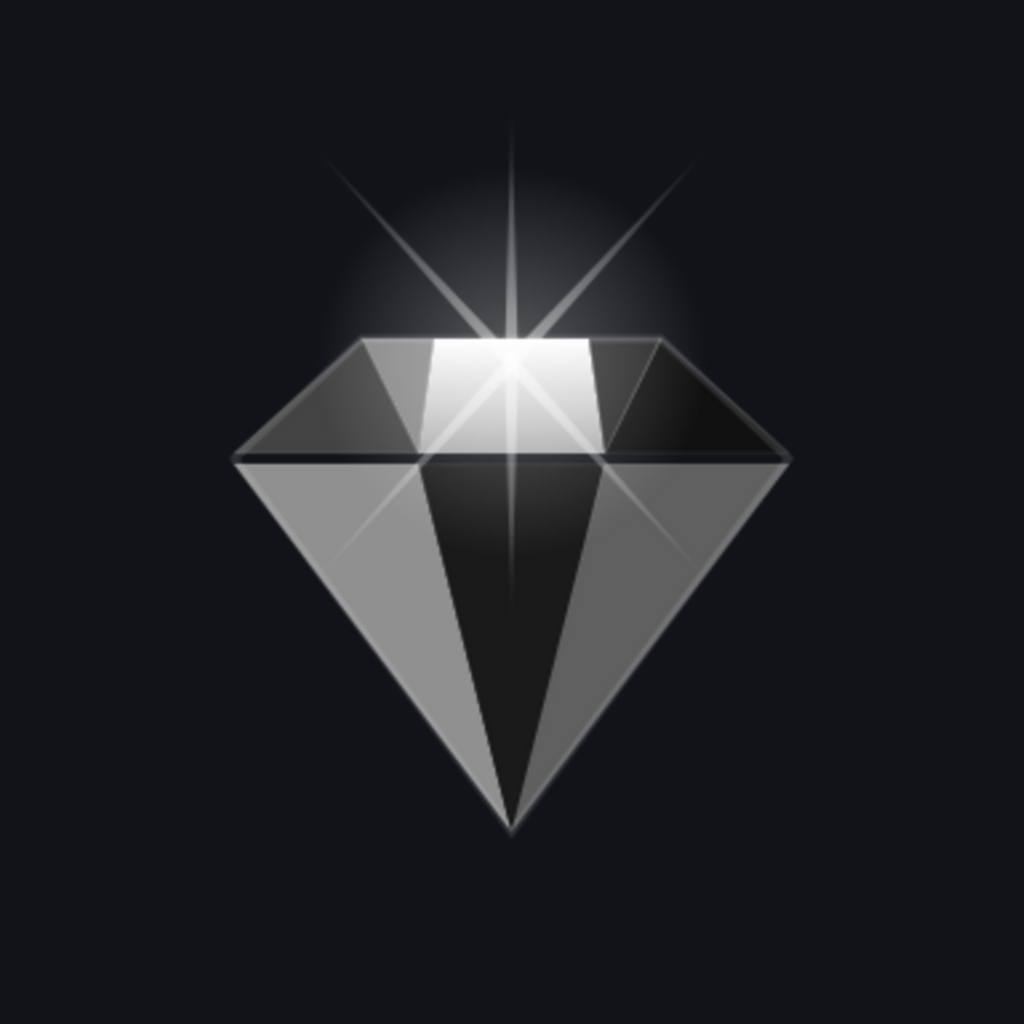
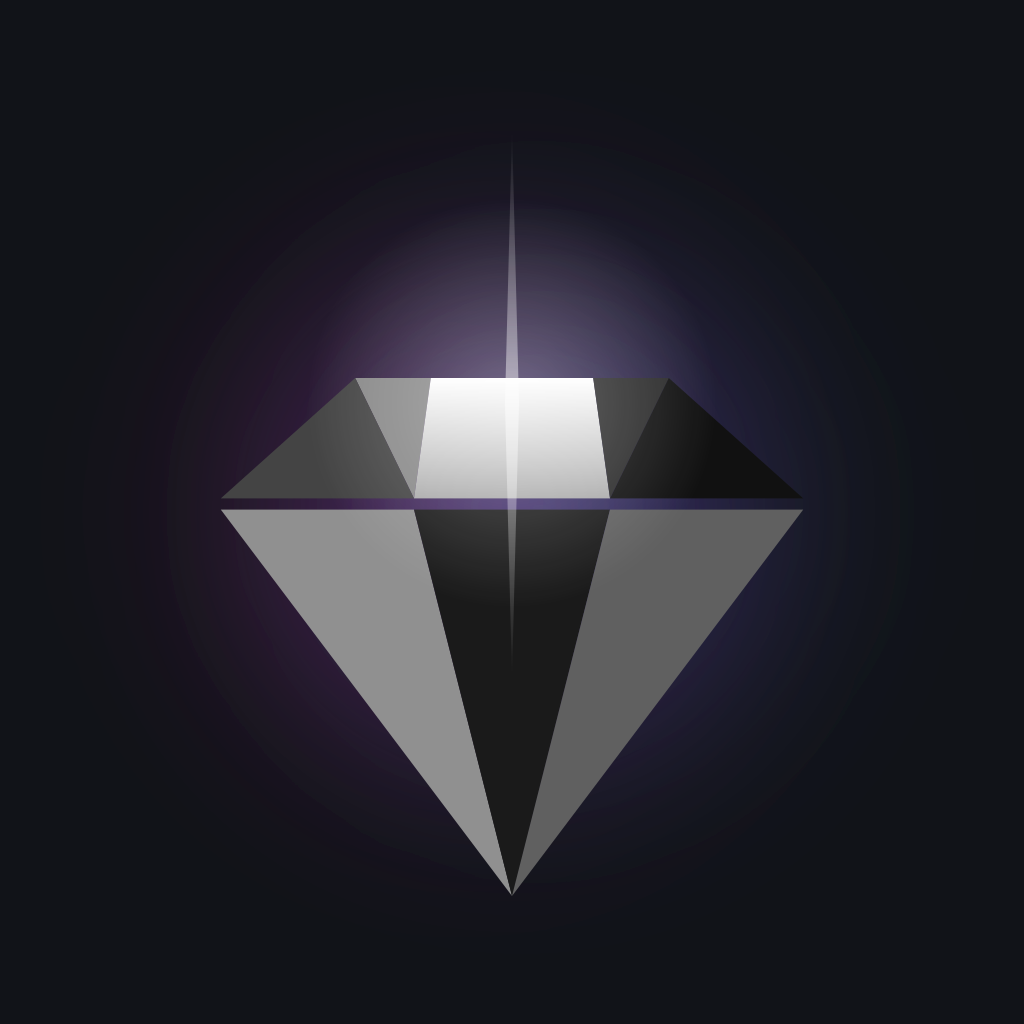
feat(mobile): rediseño splash/icono, DiamondHero blanco, Entry polish — v1.4.6
- assets/splash-logo.png y icon.png regenerados: DiamondSparkle + NebulosaGlow
  co-centrados por bounding box completo (sparkle incluido), fondo #111318
- SplashScreenComponent eliminada del flujo; expo-splash-screen se oculta
  cuando tenantLoading termina vía useEffect en AuthGate
- DiamondHero: wordmark SalonPro blanco tipografía mixta (Salon w300 + Pro w800),
  prop showText para reutilizar sin textos; eliminado MaskedView del wordmark
- OnboardingEntryScreen: gradiente magenta→azul en "con estilo y precisión"
  con altura y lineHeight suficientes para evitar corte de descendentes

diff --git a/apps/mobile/screens/onboarding/components/DiamondHero.tsx b/apps/mobile/screens/onboarding/components/DiamondHero.tsx
@@ -1,21 +1,22 @@
 import React from "react";
 import { View, Text, StyleSheet } from "react-native";
-import { LinearGradient } from "expo-linear-gradient";
-import MaskedView from "@react-native-masked-view/masked-view";
-import { ThemedText } from "@/components/ThemedText";
 import { DiamondSparkle } from "./DiamondSparkle";
 import { NebulosaGlow } from "./NebulosaGlow";
 import { Spacing } from "@/constants/theme";
 
 const STACK_SIZE = 320;
 const GLOW_SIZE = 420;
-const GRADIENT_COLORS: [string, string, string] = ["#E91E8C", "#9C27B0", "#1565C0"];
+
+interface DiamondHeroProps {
+  /** Mostrar wordmark "SalonPro" y tagline debajo del diamante. Default: true */
+  showText?: boolean;
+}
 
 /**
- * Componente compartido entre OnboardingEntryScreen y SplashScreen.
- * NebulosaGlow + DiamondSparkle + wordmark "SalonPro" con gradiente + tagline.
+ * Componente compartido entre OnboardingEntryScreen y la splash nativa (vía assets).
+ * NebulosaGlow + DiamondSparkle + wordmark "SalonPro" blanco + tagline.
  */
-export function DiamondHero() {
+export function DiamondHero({ showText = true }: DiamondHeroProps) {
   return (
     <View style={styles.container}>
       {/* Glow + diamante */}
@@ -26,27 +27,22 @@ export function DiamondHero() {
         </View>
       </View>
 
-      {/* Wordmark SalonPro — gradiente dentro de las letras */}
-      <MaskedView
-        style={styles.maskedWordmark}
-        maskElement={
-          <View style={styles.maskCenter}>
-            <Text style={styles.wordmark}>SalonPro</Text>
+      {showText && (
+        <>
+          {/* Wordmark SalonPro — tipografía mixta, todo blanco */}
+          <View style={styles.wordmarkRow}>
+            {/* "Salon" — serif elegante via fontWeight 300 + letterSpacing amplio */}
+            <Text style={styles.wordmarkSalon}>Salon</Text>
+            {/* "Pro" — sans-serif bold condensado */}
+            <Text style={styles.wordmarkPro}>Pro</Text>
           </View>
-        }
-      >
-        <LinearGradient
-          colors={GRADIENT_COLORS}
-          start={{ x: 0, y: 0.5 }}
-          end={{ x: 1, y: 0.5 }}
-          style={styles.gradientFill}
-        />
-      </MaskedView>
 
-      {/* Tagline */}
-      <ThemedText style={styles.tagline}>
-        Pule tu negocio, Brilla en cada servicio.
-      </ThemedText>
+          {/* Tagline */}
+          <Text style={styles.tagline}>
+            Pule tu negocio · Brilla en cada servicio
+          </Text>
+        </>
+      )}
     </View>
   );
 }
@@ -70,29 +66,31 @@ const styles = StyleSheet.create({
     alignItems: "center",
     justifyContent: "center",
   },
-  maskedWordmark: {
-    height: 44,
+  wordmarkRow: {
+    flexDirection: "row",
+    alignItems: "baseline",
+    gap: 2,
   },
-  maskCenter: {
-    flex: 1,
-    alignItems: "center",
-    justifyContent: "center",
-    backgroundColor: "transparent",
+  // "Salon" — peso ligero, letras separadas, aspecto editorial/lujo
+  wordmarkSalon: {
+    fontSize: 38,
+    fontWeight: "300",
+    letterSpacing: 6,
+    color: "#FFFFFF",
+    textTransform: "uppercase",
   },
-  wordmark: {
-    fontSize: 36,
-    fontWeight: "700",
-    letterSpacing: -0.5,
-    color: "black", // define la forma del mask — el color no importa
-  },
-  gradientFill: {
-    flex: 1,
-    width: 220,
+  // "Pro" — bold, sin separación, contraste de peso
+  wordmarkPro: {
+    fontSize: 38,
+    fontWeight: "800",
+    letterSpacing: -1,
+    color: "#FFFFFF",
   },
   tagline: {
-    fontSize: 15,
-    color: "rgba(255,255,255,0.55)",
+    fontSize: 13,
+    fontWeight: "400",
+    color: "rgba(255,255,255,0.45)",
     textAlign: "center",
-    lineHeight: 22,
+    letterSpacing: 0.5,
   },
 });

diff --git a/apps/mobile/navigation/AuthGate.tsx b/apps/mobile/navigation/AuthGate.tsx
@@ -1,9 +1,11 @@
-import React, { useState } from "react";
+import React, { useEffect, useState } from "react";
+import * as SplashScreenExpo from "expo-splash-screen";
 import MainTabNavigator from "@/navigation/MainTabNavigator";
-import { SplashScreenComponent } from "@/screens/SplashScreen";
 import { LoginScreen } from "@/screens/LoginScreen";
 import { useAuth } from "@/contexts/AuthContext";
 import { useTenant } from "@/contexts/TenantContext";
+
+SplashScreenExpo.preventAutoHideAsync?.();
 
 import OnboardingBusinessTypeScreen from "@/screens/onboarding/OnboardingBusinessTypeScreen";
 import OnboardingBasicInfoScreen from "@/screens/onboarding/OnboardingBasicInfoScreen";
@@ -18,15 +20,15 @@ type PasoOnboarding = 1 | 2 | 3 | 4 | 5 | 6;
 
 /**
  * Flujo completo de la app:
- *   Splash → (no configurado) Entrada → nuevo negocio (pasos 1-4) → paso 5 auth → paso 6 listo;
- *           o "ya tengo cuenta" → OnboardingAuthScreen (mismo look del wizard), no LoginScreen aislado.
+ *   (no configurado) Entrada → nuevo negocio (pasos 1-4) → paso 5 auth → paso 6 listo;
+ *           o "ya tengo cuenta" → OnboardingAuthScreen (mismo look del wizard).
  *           → (configurado, no auth) LoginScreen clásico
  *           → (configurado, auth) MainTabNavigator
+ * La splash nativa (expo-splash-screen) cubre el tiempo de carga inicial.
  */
 export default function AuthGate() {
   const { isAuthenticated } = useAuth();
   const { isConfigured, isLoading: tenantLoading } = useTenant();
-  const [splashDone, setSplashDone] = useState(false);
   const [paso, setPaso] = useState<PasoOnboarding>(1);
   const [onboardingSessionDone, setOnboardingSessionDone] = useState(false);
 
@@ -37,10 +39,15 @@ export default function AuthGate() {
   const forceOnboardingDev =
     __DEV__ && process.env.EXPO_PUBLIC_FORCE_ONBOARDING === "true";
 
-  // Mientras el TenantContext carga AsyncStorage, mostramos el splash
-  if (!splashDone || tenantLoading) {
-    return <SplashScreenComponent onFinish={() => setSplashDone(true)} />;
-  }
+  // Ocultar splash nativa cuando el tenant termina de cargar
+  useEffect(() => {
+    if (!tenantLoading) {
+      SplashScreenExpo.hideAsync?.();
+    }
+  }, [tenantLoading]);
+
+  // Mientras AsyncStorage carga, la splash nativa cubre la pantalla
+  if (tenantLoading) return null;
 
   // Primero: si no está configurado, o si en desarrollo forzamos onboarding
   // (forceOnboardingDev solo fuerza mientras no se haya completado esta sesión)

diff --git a/apps/mobile/screens/onboarding/components/NebulosaGlow.tsx b/apps/mobile/screens/onboarding/components/NebulosaGlow.tsx
@@ -29,13 +29,13 @@ export function NebulosaGlow({ size = 420 }: NebulosaGlowProps) {
   const ratio = s / 420;
   const center = s / 2;
 
-  const mCx   = center - 25 * ratio;  // 185 en base 420
-  const bCx   = center + 25 * ratio;  // 235 en base 420
-  const cy    = center;
-  const r     = 155 * ratio;
+  const mCx = center - 25 * ratio; // 185 en base 420
+  const bCx = center + 25 * ratio; // 235 en base 420
+  const cy = center;
+  const r = 155 * ratio;
   const gScale = 175 * ratio;
-  const blur  = 42 * ratio;
-  const fPad  = s * 0.8;
+  const blur = 42 * ratio;
+  const fPad = s * 0.8;
 
   return (
     <Svg
@@ -54,9 +54,9 @@ export function NebulosaGlow({ size = 420 }: NebulosaGlowProps) {
           ry={gScale}
           gradientUnits="userSpaceOnUse"
         >
-          <Stop offset="0"   stopColor="#E91E8C" stopOpacity={0.60} />
+          <Stop offset="0" stopColor="#E91E8C" stopOpacity={0.6} />
           <Stop offset="0.5" stopColor="#E91E8C" stopOpacity={0.25} />
-          <Stop offset="1"   stopColor="#E91E8C" stopOpacity={0} />
+          <Stop offset="1" stopColor="#E91E8C" stopOpacity={0} />
         </RadialGradient>
 
         <RadialGradient
@@ -67,9 +67,9 @@ export function NebulosaGlow({ size = 420 }: NebulosaGlowProps) {
           ry={gScale}
           gradientUnits="userSpaceOnUse"
         >
-          <Stop offset="0"   stopColor="#1565C0" stopOpacity={0.60} />
+          <Stop offset="0" stopColor="#1565C0" stopOpacity={0.6} />
           <Stop offset="0.5" stopColor="#1565C0" stopOpacity={0.25} />
-          <Stop offset="1"   stopColor="#1565C0" stopOpacity={0} />
+          <Stop offset="1" stopColor="#1565C0" stopOpacity={0} />
         </RadialGradient>
 
         <Filter

diff --git a/apps/mobile/screens/onboarding/OnboardingEntryScreen.tsx b/apps/mobile/screens/onboarding/OnboardingEntryScreen.tsx
@@ -17,7 +17,11 @@ interface OnboardingEntryScreenProps {
   onLoginExisting: () => void;
 }
 
-const GRADIENT_COLORS: [string, string, string] = ["#E91E8C", "#9C27B0", "#1565C0"];
+const GRADIENT_COLORS: [string, string, string] = [
+  "#E91E8C",
+  "#9C27B0",
+  "#1565C0",
+];
 
 export default function OnboardingEntryScreen({
   onCreateNew,
@@ -97,13 +101,14 @@ const styles = StyleSheet.create({
     paddingBottom: Spacing.lg,
   },
   heroTitle: {
-    fontSize: 42,
+    fontSize: 38,
     fontWeight: "700",
     color: "#FFFFFF",
-    lineHeight: 48,
+    lineHeight: 46,
   },
+  // Altura generosa para que "precisión" con su descendente no se corte
   maskedHighlight: {
-    height: 52,
+    height: 58,
     marginTop: 2,
   },
   maskLeft: {
@@ -113,14 +118,15 @@ const styles = StyleSheet.create({
     backgroundColor: "transparent",
   },
   heroHighlightMask: {
-    fontSize: 42,
-    fontWeight: "700",
-    lineHeight: 48,
+    fontSize: 38,
+    fontWeight: "300",
+    letterSpacing: 0.5,
+    lineHeight: 54,
     color: "black",
   },
   gradientFill: {
     flex: 1,
-    width: 380,
+    width: 400,
   },
   heroSub: {
     fontSize: 14,

diff --git a/apps/mobile/screens/agenda/components/NewAppointmentModal.tsx b/apps/mobile/screens/agenda/components/NewAppointmentModal.tsx
@@ -94,7 +94,8 @@ export function NewAppointmentModal({
   const clientSectionTitle =
     clientLabel.charAt(0).toUpperCase() + clientLabel.slice(1);
 
-  const disableSubmit = createPending || isBusy || availabilityStatus === "checking";
+  const disableSubmit =
+    createPending || isBusy || availabilityStatus === "checking";
 
   return (
     <Modal visible={visible} animationType="slide" transparent>
@@ -190,8 +191,11 @@ export function NewAppointmentModal({
                 ]}
               >
                 <Feather name="alert-triangle" size={18} color={theme.text} />
-                <ThemedText style={[styles.availabilityBannerText, { color: theme.text }]}>
-                  Horario ocupado{busyUntilLabel ? `. Termina a las ${busyUntilLabel}` : ""}.
+                <ThemedText
+                  style={[styles.availabilityBannerText, { color: theme.text }]}
+                >
+                  Horario ocupado
+                  {busyUntilLabel ? `. Termina a las ${busyUntilLabel}` : ""}.
                 </ThemedText>
               </View>
             ) : null}

diff --git a/apps/mobile/screens/SplashScreen.tsx b/apps/mobile/screens/SplashScreen.tsx
@@ -33,8 +33,14 @@ export function SplashScreenComponent({ onFinish }: SplashScreenProps) {
       await SplashScreenExpo.hideAsync?.();
 
       // Fade in + escala sutil
-      opacity.value = withTiming(1, { duration: 600, easing: Easing.out(Easing.cubic) });
-      scale.value   = withTiming(1, { duration: 700, easing: Easing.out(Easing.back(1.1)) });
+      opacity.value = withTiming(1, {
+        duration: 600,
+        easing: Easing.out(Easing.cubic),
+      });
+      scale.value = withTiming(1, {
+        duration: 700,
+        easing: Easing.out(Easing.back(1.1)),
+      });
 
       // Fade out antes de terminar
       opacity.value = withDelay(1200, withTiming(0, { duration: 400 }));

diff --git a/apps/mobile/screens/agenda/components/AppointmentDetailModal.tsx b/apps/mobile/screens/agenda/components/AppointmentDetailModal.tsx
@@ -253,7 +253,10 @@ export function AppointmentDetailModal({
                 >
                   <Feather name="alert-triangle" size={18} color={theme.text} />
                   <ThemedText
-                    style={[styles.availabilityBannerText, { color: theme.text }]}
+                    style={[
+                      styles.availabilityBannerText,
+                      { color: theme.text },
+                    ]}
                   >
                     Horario ocupado
                     {busyUntilLabel ? `. Termina a las ${busyUntilLabel}` : ""}.

diff --git a/apps/mobile/screens/onboarding/OnboardingTeamScreen.tsx b/apps/mobile/screens/onboarding/OnboardingTeamScreen.tsx
@@ -48,7 +48,7 @@ export default function OnboardingTeamScreen({
   const [color, setColor] = useState(config.theme.primaryColor);
   const [guardando, setGuardando] = useState(false);
   const [empleadosAgregados, setEmpleadosAgregados] = useState<
-    Array<{ id: string; name: string; color: string }>
+    { id: string; name: string; color: string }[]
   >([]);
 
   const guardar = async () => {

diff --git a/apps/mobile/screens/AgendaScreen.tsx b/apps/mobile/screens/AgendaScreen.tsx
@@ -261,7 +261,8 @@ export default function AgendaScreen() {
   });
 
   const rescheduleStartDate = useMemo(() => {
-    if (!detailModalVisible || !appointmentDetail || !rescheduleDate) return null;
+    if (!detailModalVisible || !appointmentDetail || !rescheduleDate)
+      return null;
     const d = new Date(rescheduleDate);
     d.setHours(rescheduleHour, 0, 0, 0);
     return d;

diff --git a/apps/web/src/components/ui/Navbar.tsx b/apps/web/src/components/ui/Navbar.tsx
@@ -31,7 +31,6 @@ export function Navbar() {
       }`}
     >
       <div className="max-w-6xl mx-auto px-4 h-16 flex items-center justify-between">
-
         {/* Logo — ícono + wordmark + badge */}
         <a
           href="#"

diff --git a/apps/mobile/screens/agenda/hooks/useAvailabilityCheck.ts b/apps/mobile/screens/agenda/hooks/useAvailabilityCheck.ts
@@ -182,4 +182,3 @@ export function useAvailabilityCheck(args: {
     busyUntilLabel: query.data?.label ?? null,
   };
 }
-

diff --git a/CLAUDE.md b/CLAUDE.md
@@ -235,6 +235,14 @@ Flujo de arranque (mobile):
 - **Auth y roles**: layout con `FinanzasAuthWrapper`; sin sesión → `/finanzas/login`; `owner`/`dev` ven el panel; **staff** autenticado → `router.replace("/")` sin pantalla de error (no revelar la ruta). Enlace **Dashboard** en header de `/finanzas`.
 - **Nota**: agrupación del gráfico por día usa calendario local del navegador; comentario TODO en código para alinear con timezone del tenant cuando exista.
 
+## Cambios Recientes (mar 2026 — v1.4.6 — Splash/Icono rediseño + OnboardingEntry polish)
+
+- **Splash nativa** (`assets/splash-logo.png`, 900×900): regenerada con `DiamondSparkle` + `NebulosaGlow` perfectamente co-centrados (bounding box completo incluyendo sparkle y=-4); fondo `#111318`; sin textos. Reemplaza el PNG anterior que mostraba el diamante sesgado y cortado.
+- **Ícono launcher** (`assets/icon.png`, 1024×1024): regenerado con misma composición diamante+nebulosa; fondo `#111318` (elimina fondo blanco previo); diamante ocupa ~70% del canvas con márgenes simétricos.
+- **`SplashScreenComponent` eliminada** de `AuthGate`: la splash nativa cubre el tiempo de carga de AsyncStorage; `hideAsync()` se llama cuando `tenantLoading` pasa a `false` vía `useEffect`. Archivo `SplashScreen.tsx` queda en repo pero ya no se usa en el flujo.
+- **`DiamondHero`**: eliminado `MaskedView`/gradiente del wordmark "SalonPro"; tipografía mixta — `Salon` en weight 300 + letterSpacing 6 uppercase, `Pro` en weight 800 letterSpacing -1; todo blanco. Prop `showText` (default `true`) para reutilizar solo el diamante+glow sin textos.
+- **`OnboardingEntryScreen`**: restaurado gradiente magenta→azul en "con estilo y precisión" con altura `maskedHighlight: 58` y `lineHeight: 54` para evitar corte de descendentes; font-weight 300 + letterSpacing 0.5.
+
 ## Cambios Recientes (mar 2026 — v1.4.4 — Marca diamante + EAS)
 
 - **Marca (web/mobile)**: símbolo único **`/logo-diamondSparkle.svg`** (sin texto en el asset). Navbar (`next/image`): barra clara tras scroll en modo claro aplica **`invert`** al mismo SVG; en `dark:` sin invert. Footer y splash mobile solo el diamante (PNG `splash-icon.png` / `assets`). Eliminados `logo.svg`, `logo-light.svg`, `logo-icon.svg` y logos legacy en mobile.
